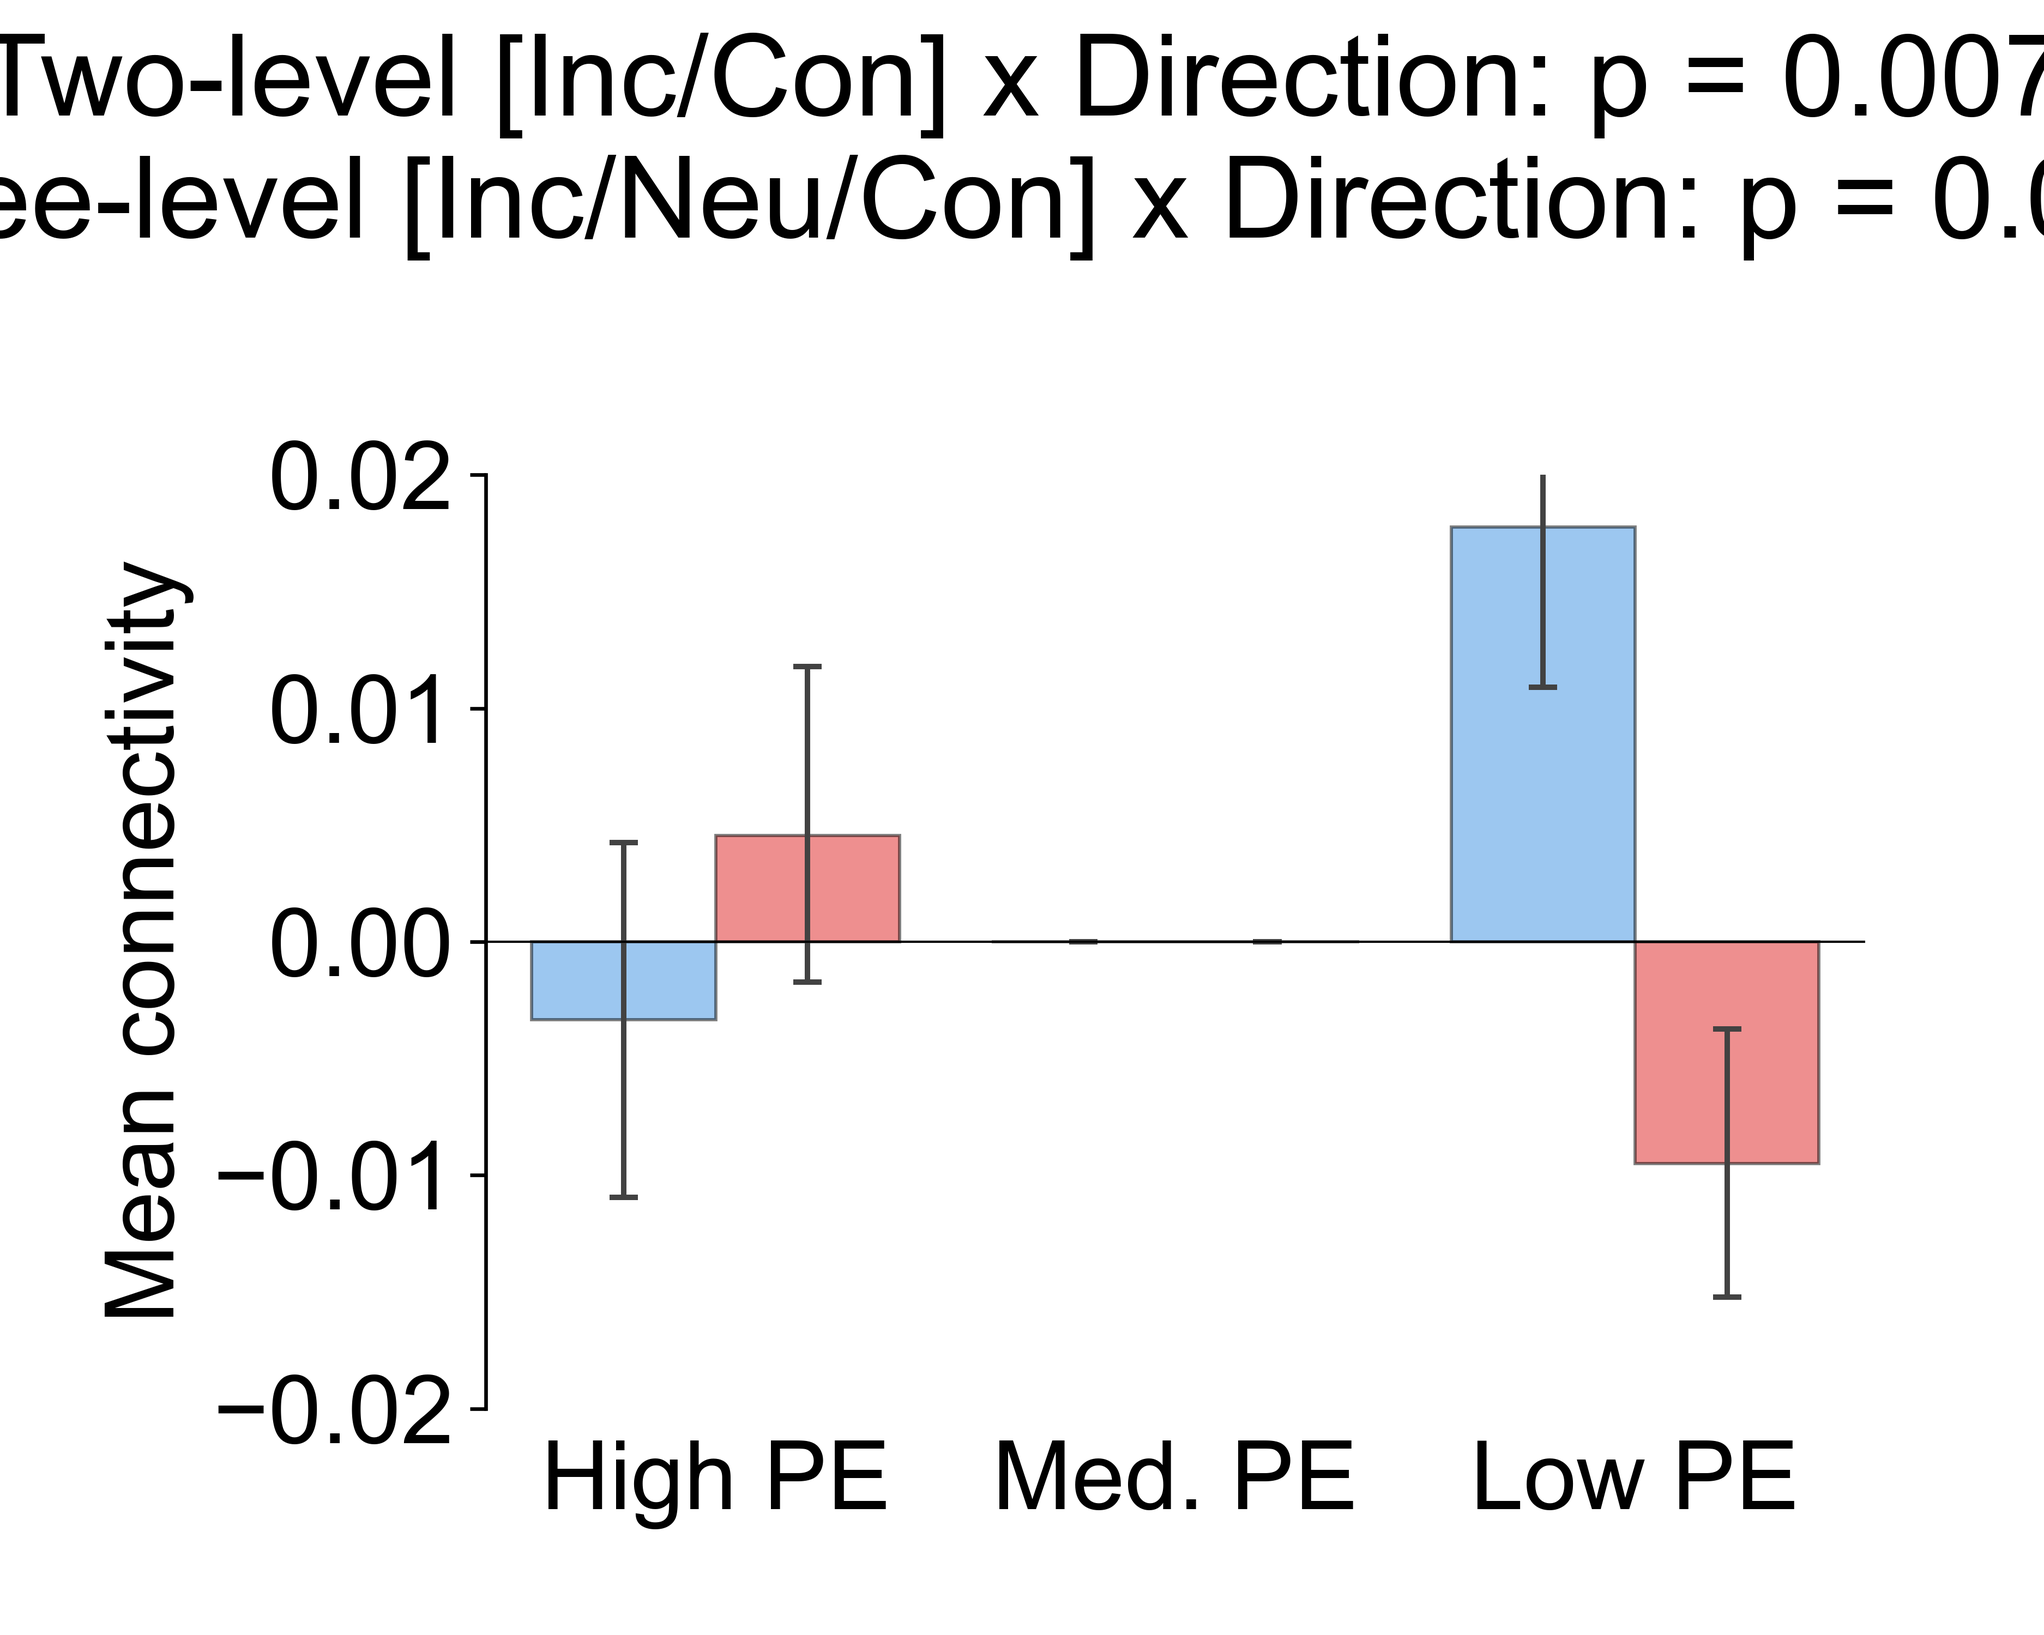
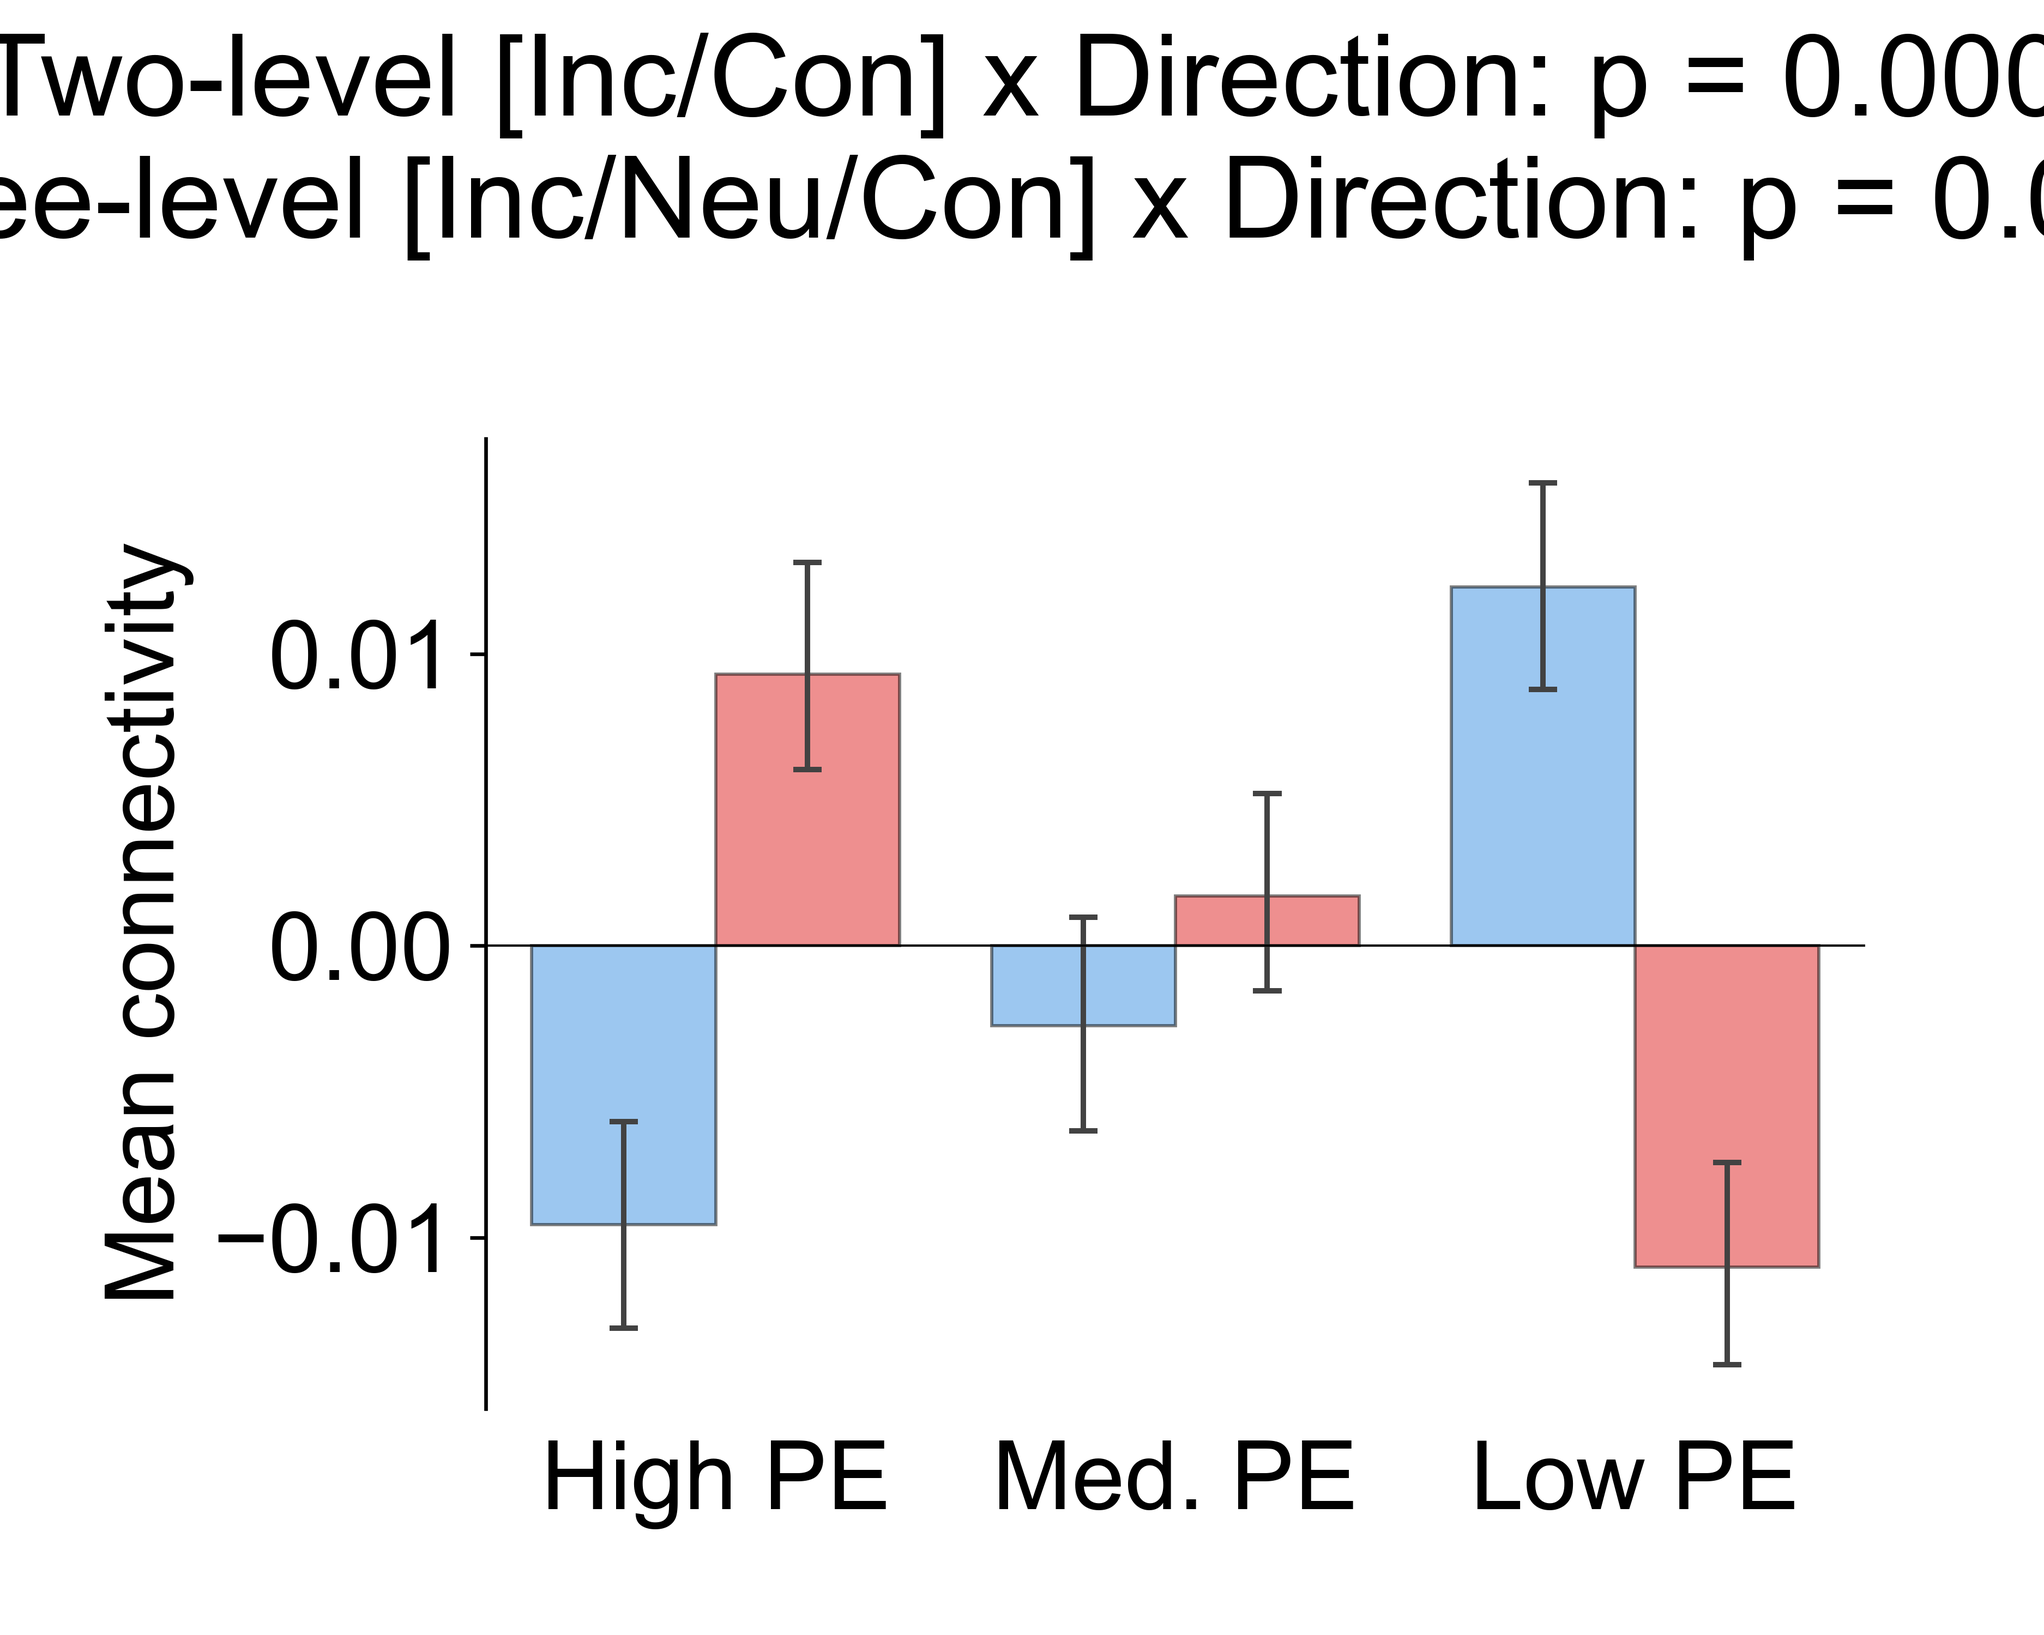
committin

diff --git a/connRSA/roberto_idea.py b/connRSA/roberto_idea.py
@@ -1,0 +1,142 @@
+from datetime import datetime
+
+from tqdm import tqdm
+
+from atlas_utils import get_atlas
+
+from connRSA.information_connectivity import get_cross_ERS_mat, get_idxs, get_cross_IRAF_mat
+from connRSA.single_trial_conn import prep_fps
+from utils import pickle_wrap
+import numpy as np
+from scipy import stats
+
+import os
+os.chdir(r'H:\PycharmProjects_H\SchemeRep')
+import matplotlib.pyplot as plt
+
+def plot_NPS_spectrum():
+    dt_max = datetime(2024, 6, 8, 0, 0, 0, 0)
+    ERS_nan_block = False
+
+    cross = False
+
+    drop_con = False
+    trial_similarity = 'corr' # euc
+    stdize_by_run = False
+    atlas = get_atlas()
+
+    idxs = get_idxs('IT')
+    coords = atlas['coords']
+    regions = atlas['ROI_regions']
+    IRAF = True
+
+    # T_idxs_sorted = sorted(idxs, key=lambda x: coords[x][1])
+    # print(idxs_sorted)
+    # for idx in T_idxs_sorted:
+    #     print(f'{idx}: {regions[idx]} | {coords[idx][1]}')
+
+    # EVC_idxs = get_idxs('EVC')
+    # LOC_idxs = get_idxs('LOC')
+    # sOcG_idxs = get_idxs('sOcG')
+    # late_OC_idxs_sorted = sorted(LOC_idxs + sOcG_idxs,
+    #                              key=lambda x: coords[x][1])
+    # idxs_sorted = EVC_idxs + late_OC_idxs_sorted + T_idxs_sorted
+
+    idxs = get_idxs('ITL')
+    idxs_sorted = sorted(idxs, key=lambda x: coords[x][1])
+
+    ROIs = atlas['ROIs']
+
+    sns = ['102', '103', '104', '105', '106', '107', '108', '109', '110',
+           '111', '112', '113', '114', '115', '117',
+           '118', '119', '120', '123', '124', '126', '127', '128', '129',
+           '130', '131', '132', '134', '135', '136',
+           '137', '138', '201', '202', '203', '204', '205', '206', '207',
+           '208', '209', '210', '211', '212', '214',
+           '216', '217', '218', '219', '221', '222', '224', '225', '227',
+           '230', '232', '233', '234', '235', '239']
+
+    four_tasks = '7'
+    fps = prep_fps(four_tasks)
+    fps = [fp for fp in fps if 'con' not in fp]
+
+    kwargs = {'trial_similarity': trial_similarity,
+              'stdize_by_run': stdize_by_run,
+              'ROIs': ROIs,
+              }
+
+    corrs = []
+    # TODO: maybe regress out the activation normal FC matrix?
+
+    if drop_con:
+        fps = [fp for fp in fps if 'con' not in fp]
+
+    ERS_scores_all = []
+    for i, sn in tqdm(enumerate(sns), desc=f'Looping ERS_scores: {cross=}'):
+        # print(f'Onto: {sn}')
+        kwargs['sn'] = sn
+        kwargs['fps'] = fps
+
+        if IRAF:
+            kwargs['second_order'] = 'spear'
+            kwargs['RDM_method'] = 'within_nan'
+            kwargs['semantic'] = True
+            kwargs['just_get_IRAFs'] = True
+            ERS_scores = pickle_wrap(get_cross_IRAF_mat, kwargs=kwargs, verbose=-1,
+                                     easy_override=False, dt_max=dt_max)
+        else:
+            kwargs['cross'] = cross
+            kwargs['nan_block'] = ERS_nan_block
+            kwargs['get_var'] = 'all'
+            ERS_scores = pickle_wrap(get_cross_ERS_mat, kwargs=kwargs, verbose=-1,
+                                     easy_override=False, dt_max=dt_max)
+        ERS_scores = np.array(ERS_scores)
+        ERS_scores = np.nanmean(ERS_scores, axis=0) # average over fps
+        ERS_scores = ERS_scores[idxs_sorted]
+        ERS_scores_all.append(ERS_scores)
+
+
+    ERS_scores_all = np.array(ERS_scores_all)
+    # print(ERS_scores_all.shape)
+    # quit()
+    ERS_scores_t = ((np.nanmean(ERS_scores_all, axis=0) /
+                    np.nanstd(ERS_scores_all, axis=0)) *
+                    np.sqrt(ERS_scores_all.shape[0]))
+    # print(ERS_scores_t)
+    # quit()
+    # ERS_scores = np.nanmean(ERS_scores_all, axis=0)
+    ERS_scores = ERS_scores_t
+    ERS_scores = (ERS_scores > 2).astype(int)
+    ERS_scores = np.cumsum(ERS_scores, axis=0)
+    ERS_scores[ERS_scores > 10] = 10
+
+    vmin = np.nanquantile(ERS_scores, 0.05)
+    vmax = np.nanquantile(ERS_scores, 0.95)
+    vmin = -vmax
+    plt.imshow(ERS_scores, aspect='auto', interpolation='none',
+               vmin=vmin, vmax=vmax, cmap='viridis', )
+    cbar = plt.colorbar()
+    cbar.set_label('t-value', rotation=270, labelpad=12)
+    plt.ylabel('ROIs')
+    idxs_ticks = np.arange(len(idxs_sorted))[::5]
+    region_ticks = [f'{regions[idx]}' for idx in idxs_sorted[::5]]
+    plt.yticks(idxs_ticks, region_ticks)
+    plt.xlabel('Item')
+    plt.show()
+
+    M_p = []
+    for i, ROI in enumerate(idxs_sorted):
+        wilk, p = stats.shapiro(ERS_scores[i], nan_policy='omit')
+        t, _ = stats.ttest_1samp(ERS_scores[i], 0)
+        print(f'{ROI}, {regions[ROI]}: wilk p = {p:.3f} | t = {t=:.2f}')
+        M_p.append(p)
+    M_p = np.array(M_p)
+    print(f'Overall: {M_p.mean():.3f}')
+
+    # for j in range(ERS_scores.shape[1]):
+    #     wilk, p = stats.shapiro(ERS_scores[:, j], nan_policy='omit')
+    #     print(f'Item {j}: wilk p = {p:.3f}')
+
+if __name__ == '__main__':
+    plot_NPS_spectrum()
+

diff --git a/EEG_fMRI/EEG_fMRI_test.py b/EEG_fMRI/EEG_fMRI_test.py
@@ -381,7 +381,8 @@ def get_EEG_score_sn(sn, num_TRs, sess='01', picks=None,
                      super_slow=False, avg_ref=True,
                      double_speed=False, excl_before=True,
                      mastoid_ref=False, Fz_Pz_abs_dif=False,
-                     fz_minus_pz=False, delay=False):
+                     fz_minus_pz=False, delay=False,
+                     get_max=False, get_max_avg_before=False):
     assert not (high_gamma and super_slow)
     if picks is None:
         picks = ['Fz', 'Cz', 'Pz',
@@ -506,7 +507,14 @@ def get_EEG_score_sn(sn, num_TRs, sess='01', picks=None,
             continue
         t_st = event[0]
         t_end = t_st + int(2.1*(250 // ds1))
-        tfr_event = tfr[..., t_st:t_end].mean(axis=-1)
+        if get_max:
+            tfr_event = tfr[..., t_st:t_end].max(axis=-1)
+        elif get_max_avg_before:
+            tfr = np.mean(tfr, axis=0)[None, ...]
+            tfr_event = tfr[..., t_st:t_end].mean(axis=-1)
+        else:
+            tfr_event = tfr[..., t_st:t_end].mean(axis=-1)
+
         eeg_scores[:, :, true_idx] = tfr_event
     # print(eeg_scores.shape)
     # quit()
@@ -569,12 +577,15 @@ M_AUTOCORR = []
 # TODO: TEST AVERAGE BEFORE!!
 def test_EEG_fMRI_sn(sn='06', sess='01', avg_before=False,
                      high_gamma=False, many_ROI=True,
-                     super_slow=False, avg_ref=False,
+                     super_slow=False, avg_ref=True,
                      abs_analysis=True, all_conn=False,
                      double_speed=True, Fz_Pz_abs_dif=False,
-                     fz_minus_pz=False):
+                     fz_minus_pz=False,
+                     get_max=False, get_max_avg_before=True):
     # changed to remove SFGG
     # dt_max = datetime(2024, day=18, month=3, hour=9) if many_ROI else None
+
+    assert not (get_max and get_max_avg_before), 'Only have one true'
 
     fMRI_fluc = pickle_wrap(get_fMRI_score_sn,
                             kwargs={'sn': sn, 'sess': sess,
@@ -619,7 +630,9 @@ def test_EEG_fMRI_sn(sn='06', sess='01', avg_before=False,
                                    'delay': False,
                                    'double_speed': double_speed,
                                    'excl_before': True,
-                                   'Fz_Pz_abs_dif': Fz_Pz_abs_dif,},
+                                   'Fz_Pz_abs_dif': Fz_Pz_abs_dif,
+                                   'get_max': get_max,
+                                   'get_max_avg_before': get_max_avg_before},
                            easy_override=False, verbose=-1)
 
     if EEG_fluc is None:

diff --git a/connRSA/information_connectivity.py b/connRSA/information_connectivity.py
@@ -150,7 +150,8 @@ def get_cross_IC_mat(sn, ROIs, fps, trial_similarity, stdize_by_run,
     return corrs
 
 def get_cross_IRAF_mat(sn, ROIs, fps, trial_similarity, stdize_by_run,
-                       second_order, RDM_method, semantic):
+                       second_order, RDM_method, semantic,
+                       just_get_IRAFs=False):
     dir_root = fr'cache/conn_RSA/ars/RSA'
     # ROI2fps2iERS = {}
     num_pairs = (len(fps) * (len(fps) - 1)) // 2
@@ -201,6 +202,10 @@ def get_cross_IRAF_mat(sn, ROIs, fps, trial_similarity, stdize_by_run,
                               by_run=False, second_order='spear')
             ROI2fp2IRAFs[ROI][fp0] = IRAFs
             ar[i, j, :] = IRAFs
+
+    if get_IRAFs:
+        ar = np.transpose(ar, (1, 0, 2))
+        return ar
 
     ar = stdize(ar, axis=-1)
     t_st = time()
@@ -256,9 +261,6 @@ def get_cross_ERS_mat(sn, ROIs, fps, trial_similarity, stdize_by_run,
     num_pairs = (len(fps) * (len(fps) - 1)) // 2
     fp2ROI2iNPS = np.full((num_pairs, len(ROIs), 114), np.nan)
 
-    # print(fps)
-    # print(f'{cross=}')
-    # quit()
 
     tup2cnt = {}
     fp12block2objs = {}
@@ -317,10 +319,6 @@ def get_cross_ERS_mat(sn, ROIs, fps, trial_similarity, stdize_by_run,
                 except FileNotFoundError:
                     ERS_dif = np.full(114, np.nan)
 
-                    # print('Bad 2')
-                    # continue
-                # print(ERS_dif.shape)
-                # quit()
                 fp2ROI2iNPS[cnt, i, :] = ERS_dif
                 tup = tuple(sorted((fp0, fp1)))
                 tup2cnt[tup] = cnt
@@ -329,7 +327,6 @@ def get_cross_ERS_mat(sn, ROIs, fps, trial_similarity, stdize_by_run,
             M_ERS_difs.append(np.nanmean(fp2ROI2iNPS[:, i, :]))
         else:
             M_ERS_difs.append(np.mean(fp2ROI2iNPS[:, i, :]))
-    # quit()
 
     if cross:
         valid_pairs = set()
@@ -369,7 +366,9 @@ def get_cross_ERS_mat(sn, ROIs, fps, trial_similarity, stdize_by_run,
         # quit()
     else:
 
-        if get_var != False:
+        if get_var == 'all':
+            return fp2ROI2iNPS
+        elif get_var != False:
             idxs = get_idxs(get_var)
             return fp2ROI2iNPS[:, idxs, :]
             # v = np.nanvar(fp2ROI2iNPS[:, idxs, :], axis=1)

diff --git a/networks/produce_Figure_5A_correlation.py b/networks/produce_Figure_5A_correlation.py
@@ -30,7 +30,6 @@ def produce_Fig5A(fp='rs_medium', anat_ver=3, combine_regions=False):
                                        'combine_regions': combine_regions},
                                easy_override=False)
 
-
     df['da_dp'] = df['da'] + df['dp']
     df['va_vp'] = df['va'] + df['vp']
 
@@ -49,6 +48,12 @@ def produce_Fig5A(fp='rs_medium', anat_ver=3, combine_regions=False):
     # plot_connectivity(conn, ticks, tick_labels, tick_lows, title=title, no_avg=True, cbar_label='Pearson\'s r',
     #                   vmin=-0.5, vmax=0.5)
 
+    # test = df[['da', 'dp', 'va', 'vp', 'no']].corr()
+    # print(test)
+    # test = [list(test.iloc[i]) for i in range(5)]
+    # print(test)
+    # # print(np.array(test))
+    # quit()
 
     networks = ['dd', 'vv', 'dv_ant', 'dv_pos',
                 'dd_vv', 'dv_dv']
@@ -65,8 +70,13 @@ def produce_Fig5A(fp='rs_medium', anat_ver=3, combine_regions=False):
         # vals = df_sn[key0].sample(frac=1, ignore_index=True)
         # df_sn[key0] = vals.tolist()
 
+        # ar = partial_corr_df(df_sn, networks,
+        #                      cov=['pd_no', 'ad_no', 'av_no', 'pv_no'])
         ar = partial_corr_df(df_sn, networks,
-                             cov=['pd_no', 'ad_no', 'av_no', 'pv_no'])
+                             cov=['pd_no', 'ad_no', 'av_no', 'pv_no',
+                                  ])
+        # ar = partial_corr_df(df_sn, networks,
+        #                      cov=[])
         r = ar[4, 5]
         print(f'{r=:.3f}')
         # r = ar[0, 1]

diff --git a/utils.py b/utils.py
@@ -44,11 +44,21 @@ def stdize(v, axis=None, nans=False, rankdata=False, stdize_by_run=False):
         slices0 = [slice(None)] * (axis - 2) + [slice(0, b0)]
         slices1 = [slice(None)] * (axis - 1) + [slice(b0, b1)]
         slices2 = [slice(None)] * (axis - 1) + [slice(b1, None)]
-        v = np.concatenate((stdize(v[*slices0], axis=axis, nans=nans,
+        # python 3.11+
+        # v = np.concatenate((stdize(v[*slices0], axis=axis, nans=nans,
+        #                            rankdata=rankdata),
+        #                     stdize(v[*slices1], axis=axis, nans=nans,
+        #                            rankdata=rankdata),
+        #                     stdize(v[*slices2], axis=axis, nans=nans,
+        #                            rankdata=rankdata)),
+        #                    axis=axis)
+
+        # not sure if the below one works...?
+        v = np.concatenate((stdize(v[tuple(slices0)], axis=axis, nans=nans,
                                    rankdata=rankdata),
-                            stdize(v[*slices1], axis=axis, nans=nans,
+                            stdize(v[tuple(slices1)], axis=axis, nans=nans,
                                    rankdata=rankdata),
-                            stdize(v[*slices2], axis=axis, nans=nans,
+                            stdize(v[tuple(slices2)], axis=axis, nans=nans,
                                    rankdata=rankdata)),
                            axis=axis)
         return v

diff --git a/EEG_fMRI/FC_x_ERP.py b/EEG_fMRI/FC_x_ERP.py
@@ -531,7 +531,7 @@ if __name__ == '__main__':
                     M_above = np.mean([m > 0 for m in l])
 
                     print(f'{key} ({N=}): {M=:.3f} [{M_low:.3f}, {M_high:.3f}] '
-                          f'({t=:.3f} | {d=:.3f}), {p=:.1e}, {p_wilcox=:.1e} | '
+                          f'({t=:.3f} | {d=:.3f}), {p=:.2e}, {p_wilcox=:.2e} | '
                           f'{M_above:.1%}')
             # continue
             # if 'r50' not in NAME2L:

diff --git a/networks/old_Apr6/fluctuations.py b/networks/old_Apr6/fluctuations.py
@@ -140,6 +140,9 @@ def get_df_networks(fp='pb_lss', norm_std=False, zscore=False, f=None,
     key2p_M = {}
     for key, p in zip(act_keys, act_p):
         key2p_M[key] = np.nanmean(sn_roi_act[:, p, :], axis=1)
+    act_keys += 'no'
+    p_no = [i for i in range(246) if i not in p_dorsal + p_ventral]
+    key2p_M['no'] = np.nanmean(sn_roi_act[:, p_no, :], axis=1)
 
     df_as_d = defaultdict(list)
     n_TRs = sn_roi_act.shape[-1]

diff --git a/connRSA/single_trial_conn.py b/connRSA/single_trial_conn.py
@@ -117,6 +117,7 @@ def prep_vecs(RSA, semantic):
 def prep_fps(four_tasks):
     if four_tasks == '7':
         fps = ['bl7_fMRI', 'obj7_fMRI', 'con7_fMRI', 'vis7_fMRI']
+
     elif four_tasks == '8':
         fps = ['bl8_fMRI', 'obj8_fMRI', 'con8_fMRI', 'vis8_fMRI']
     else:
